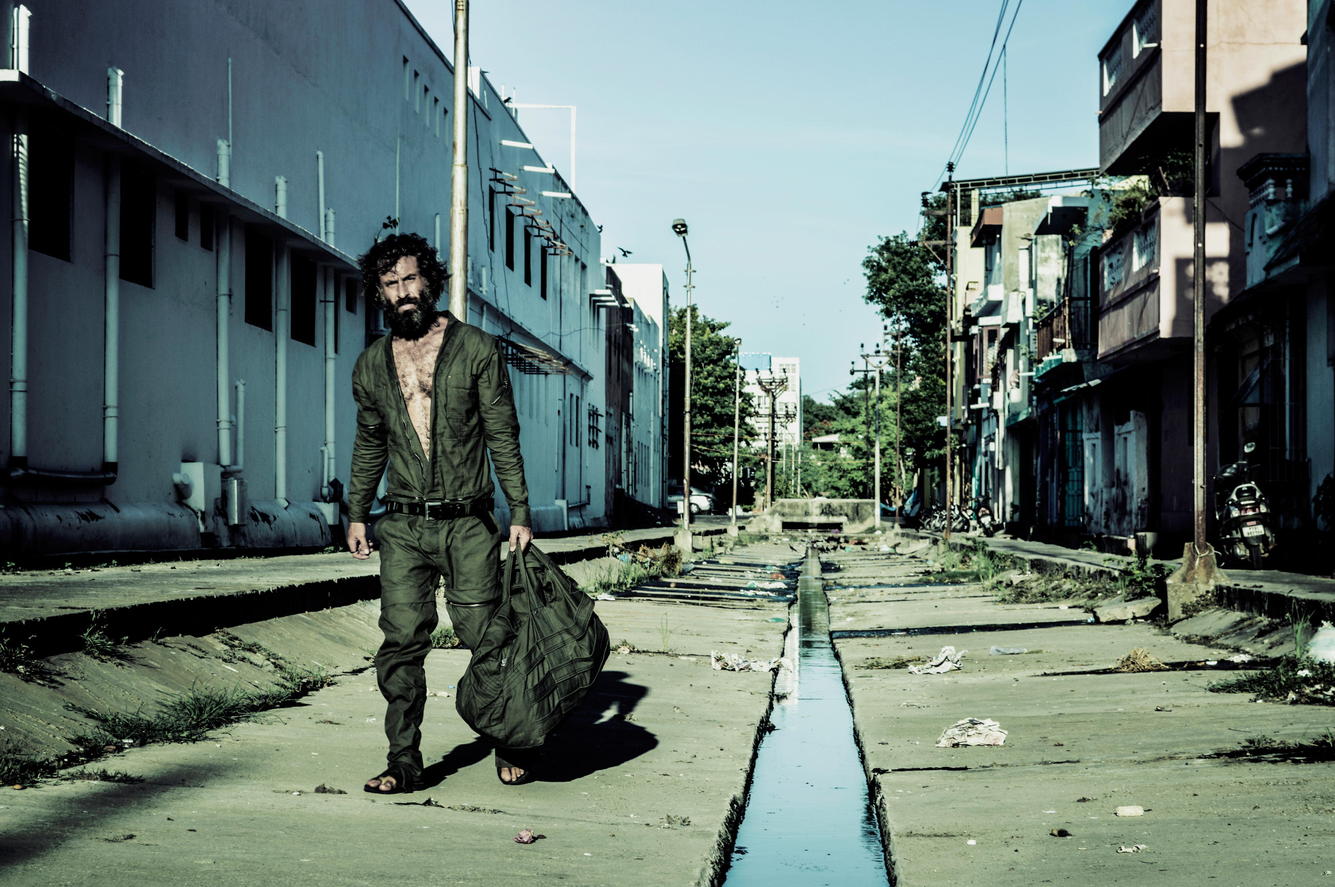
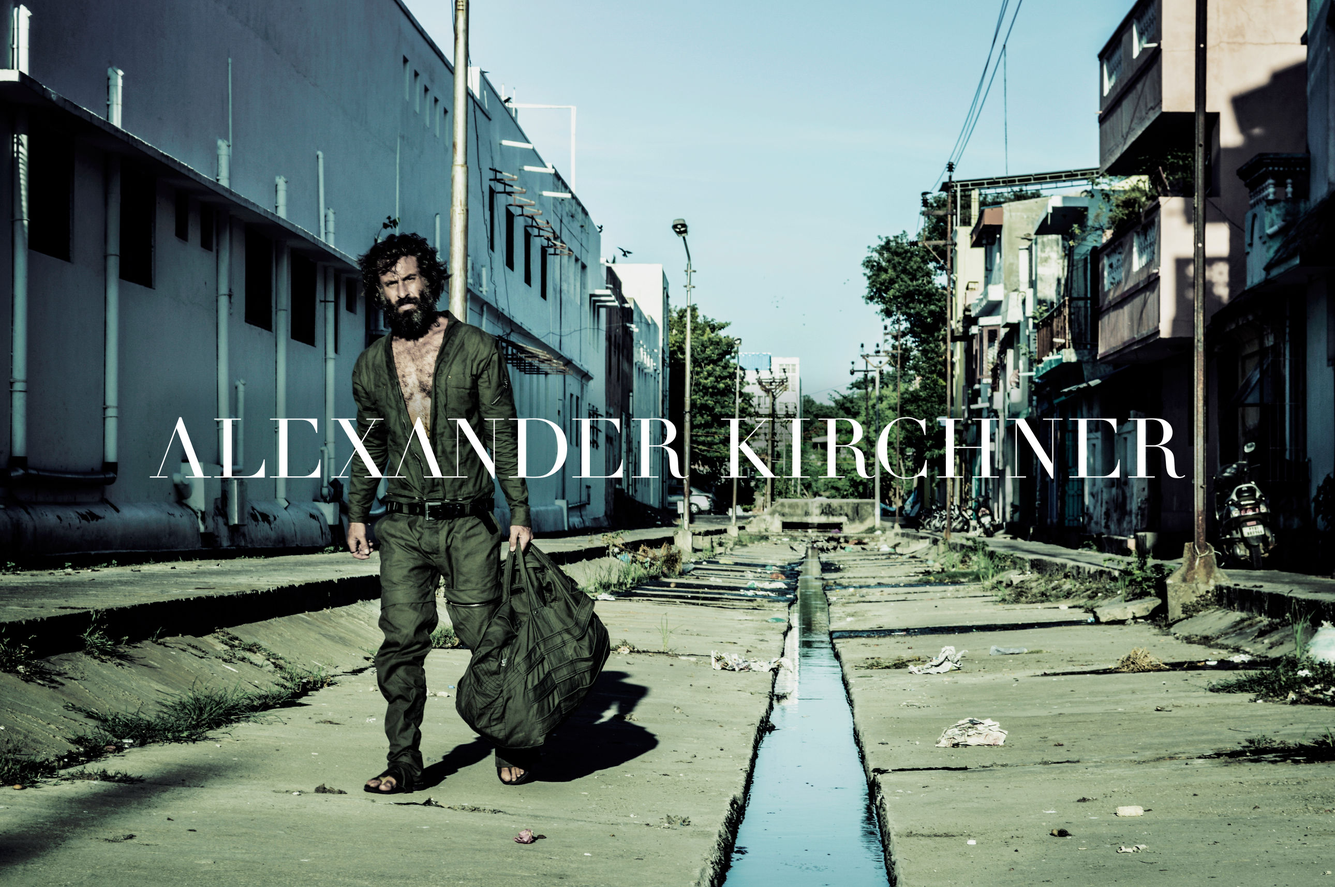
changed first images of carousel

Changed region(s): [[0.124, 0.4327, 0.8992, 0.5872]]

diff --git a/index.html b/index.html
@@ -87,7 +87,7 @@
                    <div id="frontpageCarousel" class="carousel slide" data-ride="carousel">
                      <div class="carousel-inner" role="listbox">
                         <div class="item active imgAuto">
-                          <img class="imgMax" src="img/portfolio/AK-10.jpg">
+                          <img class="imgMax" src="img/portfolio/DSC_0238-1.jpg">
                         </div>
                         <div class="item imgAuto">
                           <img class="imgMax" src="img/portfolio/DSC_0480.jpg">
